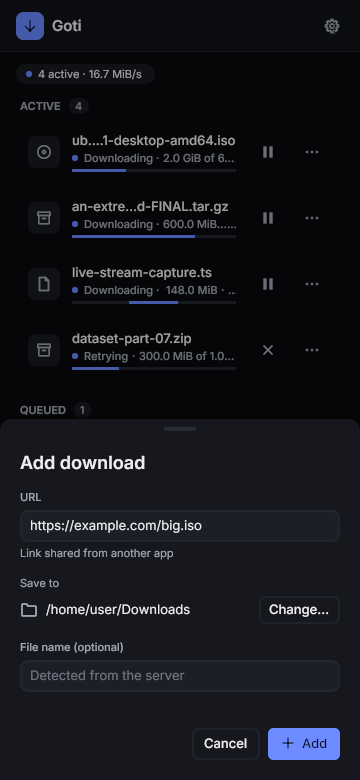
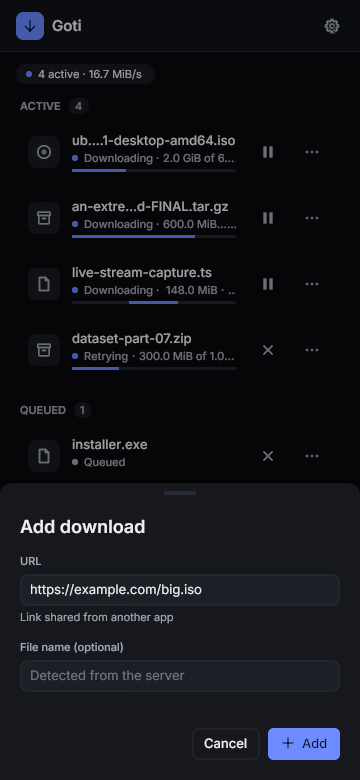
fix(ui): device pass — own inset handling, touch menus, no Save-to on Android, reveal new task on phones

Changed region(s): [[0.0611, 0.5538, 0.55, 0.8], [0.7333, 0.7692, 0.8861, 0.8], [0.4583, 0.5231, 0.55, 0.5538]]

diff --git a/internal/ui/dialogs/add.go b/internal/ui/dialogs/add.go
@@ -34,6 +34,10 @@ func validURL(s string) error {
 
 // Add is the Add download dialog.
 type Add struct {
+	// Mobile hides the destination row: on Android downloads land in the
+	// app's folder and are published to Downloads.
+	Mobile bool
+
 	url, name           widget.Editor
 	destDir             string
 	urlErr, submitErr   string
@@ -128,12 +132,16 @@ func (a *Add) Layout(gtx layout.Context, th *theme.Theme, _ *state.Snapshot, _ t
 		}
 		return layout.Inset{Top: theme.S1}.Layout(gtx, screens.Label(th, theme.Caption, th.TextMuted, a.hint))
 	}
-	body := screens.Column(theme.S4,
+	fields := []layout.Widget{
 		screens.Column(0, components.TextField(th, &a.url, "URL", "https://example.com/file.iso", a.urlErr), recordIf(a.urlErr), urlHint),
-		screens.Column(theme.S1+2,
+	}
+	if !a.Mobile {
+		fields = append(fields, screens.Column(theme.S1+2,
 			screens.Label(th, theme.Caption, th.TextMuted, "Save to"),
 			a.destRow(th),
-		),
+		))
+	}
+	fields = append(fields,
 		components.TextField(th, &a.name, "File name (optional)", "Detected from the server", ""),
 		func(gtx layout.Context) layout.Dimensions {
 			if a.submitErr == "" {
@@ -146,6 +154,7 @@ func (a *Add) Layout(gtx layout.Context, th *theme.Theme, _ *state.Snapshot, _ t
 			)
 		},
 	)
+	body := screens.Column(theme.S4, fields...)
 	actions := screens.Row(components.Button(th, &a.cancel, "Cancel", components.Secondary),
 		components.Button(th, &a.add, "Add", components.Primary, components.WithIcon(icons.Plus)))
 	a.shell.Fade.Show(true)

diff --git a/internal/ui/window.go b/internal/ui/window.go
@@ -313,7 +313,9 @@ func (c *controller) selectNewTask(snap *state.Snapshot) {
 		return
 	}
 	c.selectNew, c.addKnown = false, nil
-	c.main.Selected = best.ID
+	if !c.main.IsCompact() { // on a phone, details would cover the list
+		c.main.Selected = best.ID
+	}
 	c.main.ScrollTo(best.ID)
 }
 
@@ -440,7 +442,7 @@ func RunWindow(d WindowDeps) error {
 	c.takeShared, c.onAdd = d.TakeSharedURL, d.OnAddSubmit
 	c.picker = picker
 	c.settings.Version, c.settings.DataDir = d.Version, d.DataDir
-	c.settings.Mobile = platform.Mobile
+	c.settings.Mobile, c.add.Mobile = platform.Mobile, platform.Mobile
 	if d.Logger != nil {
 		c.log = d.Logger
 	}
@@ -464,7 +466,10 @@ func RunWindow(d WindowDeps) error {
 			}
 			return e.Err
 		case gioapp.FrameEvent:
-			gtx := gioapp.NewContext(&ops, e)
+			// Not gioapp.NewContext: it offsets ops by the insets itself;
+			// safeArea applies them so bars and scrims can be painted.
+			ops.Reset()
+			gtx := layout.Context{Ops: &ops, Now: e.Now, Source: e.Source, Metric: e.Metric, Constraints: layout.Exact(e.Size)}
 			c.insets = layout.Inset{Top: e.Insets.Top, Bottom: e.Insets.Bottom, Left: e.Insets.Left, Right: e.Insets.Right}
 			snap := d.Store.Load()
 			th := light

diff --git a/internal/ui/components/menu.go b/internal/ui/components/menu.go
@@ -9,6 +9,7 @@ import (
 	"gioui.org/layout"
 	"gioui.org/op"
 	"gioui.org/op/clip"
+	"gioui.org/unit"
 	"gioui.org/widget"
 
 	"github.com/raptordnj/goti/internal/ui/icons"
@@ -16,8 +17,10 @@ import (
 )
 
 const (
-	menuWidth  = 200
-	menuItemH  = 30
+	menuWidth = 200
+	menuItemH = 30
+	// touchItemH is the item height of touch (compact) menus.
+	touchItemH = 44
 	menuMargin = 4
 )
 
@@ -33,6 +36,8 @@ type MenuState struct {
 	Open   bool
 	Anchor image.Point
 	Items  []MenuItem
+	// Touch uses 44-dp items (compact layouts).
+	Touch bool
 
 	list    widget.List
 	clicks  []widget.Clickable
@@ -211,7 +216,11 @@ func (m *MenuState) item(gtx layout.Context, th *theme.Theme, i int) layout.Dime
 	}
 	return c.Layout(gtx, func(gtx layout.Context) layout.Dimensions {
 		pointer.CursorPointer.Add(gtx.Ops)
-		gtx.Constraints.Min = image.Pt(gtx.Constraints.Max.X, gtx.Dp(menuItemH))
+		ih := unit.Dp(menuItemH)
+		if m.Touch {
+			ih = touchItemH
+		}
+		gtx.Constraints.Min = image.Pt(gtx.Constraints.Max.X, gtx.Dp(ih))
 		hot := eased(gtx, c, b2f(c.Hovered() || gtx.Focused(c)))
 		return layout.Background{}.Layout(gtx, func(gtx layout.Context) layout.Dimensions {
 			sz := gtx.Constraints.Min

diff --git a/internal/ui/window_test.go b/internal/ui/window_test.go
@@ -353,3 +353,21 @@ func TestSafeAreaInsets(t *testing.T) {
 		t.Fatalf("constraints %v want %v", g.Constraints, want)
 	}
 }
+
+func TestAddOnPhoneRevealsWithoutOpeningDetails(t *testing.T) {
+	c, _ := newCtl(true)
+	now := time.Unix(1e6, 0)
+	var r input.Router
+	gtx := layout.Context{Ops: new(op.Ops), Constraints: layout.Exact(image.Pt(360, 780)),
+		Metric: unit.Metric{PxPerDp: 1, PxPerSp: 1}, Now: now, Source: r.Source()}
+	old := state.TaskView{ID: "a", CreatedAt: now.Add(-time.Hour)}
+	snap := &state.Snapshot{AddResultSeq: 1, Tasks: []state.TaskView{old}}
+	c.frame(gtx, theme.New(theme.Light()), snap, now)
+	c.handle(screens.IntentOpenAdd{Prefill: "https://a/b"}, snap, now)
+	c.handle(screens.IntentCommand{Cmd: app.AddDownload{URL: "https://a/b"}}, snap, now)
+	nw := state.TaskView{ID: "b", CreatedAt: now}
+	c.afterResults(&state.Snapshot{AddResultSeq: 2, Tasks: []state.TaskView{old, nw}})
+	if c.main.Selected != "" || c.main.ScrollTarget() != "b" {
+		t.Fatalf("selected %q scroll %q", c.main.Selected, c.main.ScrollTarget())
+	}
+}

diff --git a/internal/ui/components/controls_test.go b/internal/ui/components/controls_test.go
@@ -181,3 +181,16 @@ func TestButtonDisabledDims(t *testing.T) {
 		t.Fatalf("opacity enabled=%v disabled=%v", en, dis)
 	}
 }
+
+func TestMenuTouchItems(t *testing.T) {
+	hs := newHarness()
+	m := &MenuState{Open: true, Anchor: image.Pt(100, 100), Items: menuItems()}
+	f := func(gtx layout.Context) { m.Layout(gtx, lth) }
+	hs.frame(f)
+	h := m.rect.Dy()
+	m.Touch = true
+	hs.frame(f)
+	if got := m.rect.Dy() - h; got != 3*(44-30) {
+		t.Fatalf("touch menu grew by %d px, want %d", got, 3*(44-30))
+	}
+}

diff --git a/internal/ui/dialogs/dialogs_test.go b/internal/ui/dialogs/dialogs_test.go
@@ -219,3 +219,14 @@ func TestAddBottomSheetCompact(t *testing.T) {
 		t.Fatalf("desktop card %v", c)
 	}
 }
+
+func TestAddHidesSaveToOnMobile(t *testing.T) {
+	recordTexts(t)
+	a := Add{Mobile: true}
+	a.Open("", "/data/private")
+	hs := newHarness(360, 780)
+	hs.frame(func(gtx layout.Context) { a.Layout(gtx, th, &state.Snapshot{}, now) })
+	if hasText(t, "Save to") || hasText(t, "/data/private") {
+		t.Fatalf("mobile Add shows the folder row: %v", screens.RecordedTexts())
+	}
+}

diff --git a/internal/ui/snapshot/render_test.go b/internal/ui/snapshot/render_test.go
@@ -94,6 +94,7 @@ func phoneScenes() []scene {
 		{"busy", Busy, mainScene("", nil)},
 		{"details", Busy, mainScene("1", nil)},
 		{"add", Busy, mainScene("", func(a *dialogs.Add, _ *dialogs.Confirm, s *state.Snapshot) func(layout.Context, *theme.Theme, *state.Snapshot) {
+			a.Mobile = true
 			a.OpenShared("https://example.com/big.iso", s.Settings.DownloadDir)
 			return func(g layout.Context, th *theme.Theme, s *state.Snapshot) { a.Layout(g, th, s, Now) }
 		})},

diff --git a/internal/ui/screens/main.go b/internal/ui/screens/main.go
@@ -307,6 +307,7 @@ func (m *Main) layoutMenu(gtx layout.Context, th *theme.Theme, snap *state.Snaps
 		return
 	}
 	w.Menu.SetItems(components.RowMenuItems(*v))
+	w.Menu.Touch = m.compact
 	w.Menu.Anchor = image.Pt(gtx.Dp(theme.S4)+w.MoreAt.X, y+w.MoreAt.Y)
 	picked := w.Menu.Layout(gtx, th)
 	if !w.Menu.Open {

diff --git a/internal/ui/screens/compact.go b/internal/ui/screens/compact.go
@@ -19,3 +19,6 @@ const (
 	longPressFor         = 500 // ms
 	touchButton  unit.Dp = 40
 )
+
+// IsCompact reports whether the last layout of m was compact.
+func (m *Main) IsCompact() bool { return m.compact }
